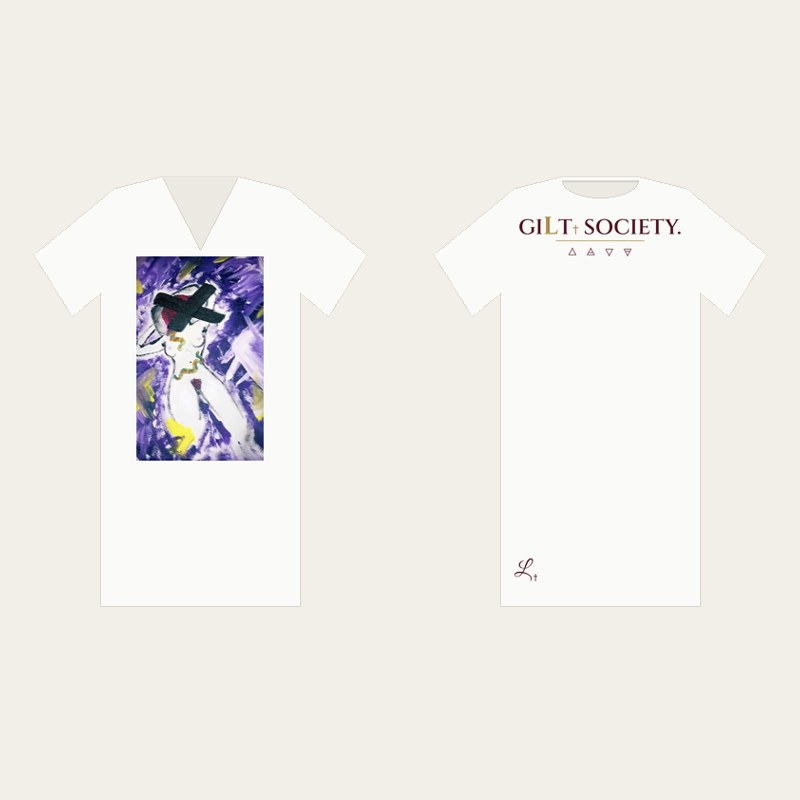
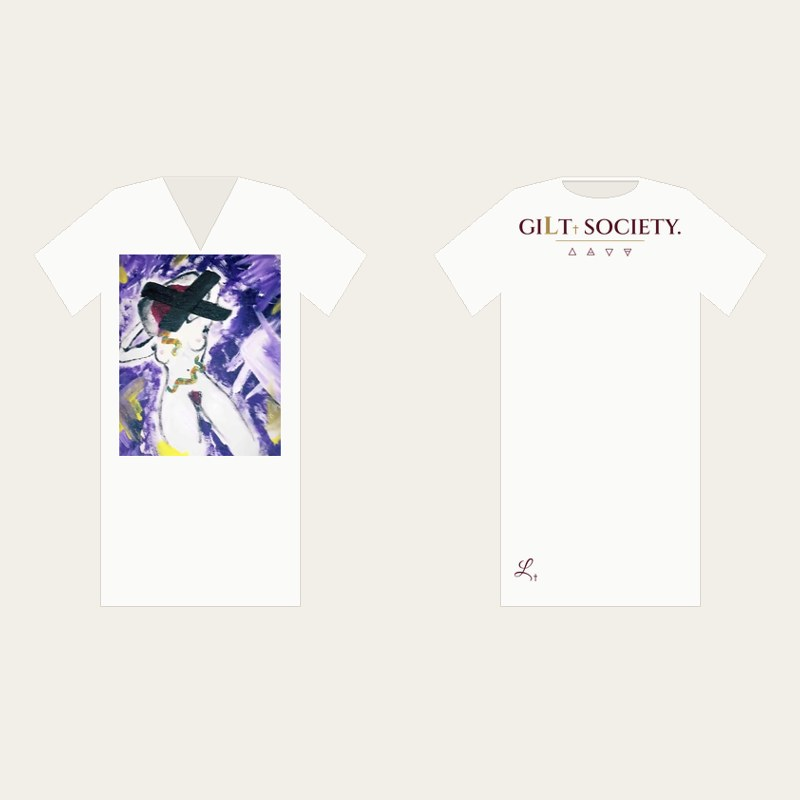
V-neck: full-front Persephone
Claude-Session: https://claude.ai/code/session_014iiJHpRhDAAXHjpJ1MU1PV

Changed region(s): [[0.125, 0.3125, 0.375, 0.5938]]

diff --git a/public/merch.html b/public/merch.html
@@ -25,7 +25,7 @@
 
 <div class="top"><a class="brand" href="index.html"><svg class="bm" viewBox="0 0 360 320" fill="none" aria-hidden="true"><path d="M180 8 354 306H6Z" stroke="#ffffff" stroke-width="9" stroke-linejoin="round"/><g transform="translate(80 106)"><circle cx="100" cy="100" r="78" stroke="#ffffff" stroke-width="15"/><circle cx="100" cy="100" r="78" stroke="#c9ad6e" stroke-width="15" stroke-dasharray="1.5 8" opacity=".7"/><path d="M100 22C112 22 128 24 138 30" stroke="#ffffff" stroke-width="15" stroke-linecap="round"/><ellipse cx="94" cy="20" rx="16" ry="10" fill="#c23352"/><circle cx="100" cy="100" r="20" stroke="#c9ad6e" stroke-width="3.5"/><circle cx="100" cy="100" r="4.5" fill="#c9ad6e"/></g></svg><span>Gi<i class="gl">l</i>t<svg class="bx" viewBox="0 0 20 32" fill="none" aria-hidden="true"><path d="M10 2V30M2 11H18" stroke="#ffffff" stroke-width="3.5" stroke-linecap="square"/></svg> Society.</span></a><nav><a href="collection.html">Collection</a><a href="merch.html" class="cur">Society Merch</a><a href="experiences.html">Experiences</a><a href="consulting.html">Palette</a><a href="framing.html">Framing</a><a href="commissions.html">Commissions</a><a href="shipping.html">Shipping</a><a href="payment.html">Payment</a></nav></div>
 <section id="merch"><div class="in"><p class="k"><svg class="sy"><use href="#s-earth"/></svg>Vestments &mdash; Society Merch</p><h2>Society Merch</h2><p class="sub">Wearable pieces of the Society. Every item is made to order for you and ships in 5&ndash;10 business days, with $7.95 flat US shipping. Choose your size at checkout.</p>
-<h3 class="mh">The Persephone Edition</h3><div class="mg"><article class="mc"><div class="mi"><img src="img/merch/persephone-aop-tee.jpg" alt="Gilt Society. Persephone All-Over Tee" loading="lazy" width="800" height="800"></div><div class="mb"><h3>Persephone All-Over Tee</h3><p class="mp">$58</p><p class="md">The painting, edge to edge. The Gilt Society. name and the four elements live on the back.</p><p class="ms">XS–2XL &middot; made to order</p><a class="btn" href="https://buy.stripe.com/14A9AM4vYf1Abt0gy21oI0t" target="_blank" rel="noopener">Buy &rarr;</a></div></article><article class="mc"><div class="mi"><img src="img/merch/persephone-sweatshirt.jpg" alt="Gilt Society. Persephone Sweatshirt" loading="lazy" width="800" height="800"></div><div class="mb"><h3>Persephone Sweatshirt</h3><p class="mp">$72</p><p class="md">Black premium crewneck with Persephone, the Gilt Society. name and the four elements beneath her.</p><p class="ms">S–3XL &middot; made to order</p><a class="btn" href="https://buy.stripe.com/8x27sE0fI3iS1Sq1D81oI0u" target="_blank" rel="noopener">Buy &rarr;</a></div></article><article class="mc"><div class="mi"><img src="img/merch/persephone-sweatshirt-white.jpg" alt="Gilt Society. Persephone Sweatshirt, white" loading="lazy" width="800" height="800"></div><div class="mb"><h3>Persephone Sweatshirt &mdash; White</h3><p class="mp">$72</p><p class="md">White premium crewneck. Persephone large on the front, the Gilt Society. name and the four elements on the back, a small L&#x271D; signature on the left sleeve.</p><p class="ms">S–3XL &middot; made to order</p><a class="btn" href="https://buy.stripe.com/6oUaEQ6E6g5E1Sq0z41oI0I" target="_blank" rel="noopener">Buy &rarr;</a></div></article><article class="mc"><div class="mi"><img src="img/merch/persephone-vneck-white.jpg" alt="Gilt Society. Persephone V-Neck Tee, white" loading="lazy" width="800" height="800"></div><div class="mb"><h3>Persephone V-Neck Tee &mdash; White</h3><p class="mp">$48</p><p class="md">White V-neck. Persephone large on the front, the Gilt Society. name and the four elements on the back, with a small L&#x271D; signature at the lower corner.</p><p class="ms">S–2XL &middot; made to order</p><a class="btn" href="https://buy.stripe.com/7sY6oA2nQ2eOdB881w1oI0J" target="_blank" rel="noopener">Buy &rarr;</a></div></article><article class="mc"><div class="mi"><img src="https://files.cdn.printful.com/files/0cd/0cd37065373eb8f49ba6b71ddf982b6b_preview.png" alt="Gilt Society. Persephone Mug" loading="lazy" width="800" height="800"></div><div class="mb"><h3>Persephone Mug</h3><p class="mp">$28</p><p class="md">11 oz ceramic, wrapped in Persephone on both sides.</p><p class="ms">11 oz &middot; made to order</p><a class="btn" href="https://buy.stripe.com/3cIeV69Qif1A54CdlQ1oI0b" target="_blank" rel="noopener">Buy &rarr;</a></div></article><article class="mc"><div class="mi"><img src="img/merch/persephone-mug-black.jpg" alt="Gilt Society. Persephone Mug, black" loading="lazy" width="800" height="800"></div><div class="mb"><h3>Persephone Mug &mdash; Black</h3><p class="mp">$32</p><p class="md">11 oz black glossy ceramic. Persephone and the Gilt Society. name on both sides, the four elements stacked down the center.</p><p class="ms">11 oz &middot; made to order</p><a class="btn" href="https://buy.stripe.com/bJe8wIfaC1aKcx4dlQ1oI0H" target="_blank" rel="noopener">Buy &rarr;</a></div></article></div>
+<h3 class="mh">The Persephone Edition</h3><div class="mg"><article class="mc"><div class="mi"><img src="img/merch/persephone-aop-tee.jpg" alt="Gilt Society. Persephone All-Over Tee" loading="lazy" width="800" height="800"></div><div class="mb"><h3>Persephone All-Over Tee</h3><p class="mp">$58</p><p class="md">The painting, edge to edge. The Gilt Society. name and the four elements live on the back.</p><p class="ms">XS–2XL &middot; made to order</p><a class="btn" href="https://buy.stripe.com/14A9AM4vYf1Abt0gy21oI0t" target="_blank" rel="noopener">Buy &rarr;</a></div></article><article class="mc"><div class="mi"><img src="img/merch/persephone-sweatshirt.jpg" alt="Gilt Society. Persephone Sweatshirt" loading="lazy" width="800" height="800"></div><div class="mb"><h3>Persephone Sweatshirt</h3><p class="mp">$72</p><p class="md">Black premium crewneck with Persephone, the Gilt Society. name and the four elements beneath her.</p><p class="ms">S–3XL &middot; made to order</p><a class="btn" href="https://buy.stripe.com/8x27sE0fI3iS1Sq1D81oI0u" target="_blank" rel="noopener">Buy &rarr;</a></div></article><article class="mc"><div class="mi"><img src="img/merch/persephone-sweatshirt-white.jpg" alt="Gilt Society. Persephone Sweatshirt, white" loading="lazy" width="800" height="800"></div><div class="mb"><h3>Persephone Sweatshirt &mdash; White</h3><p class="mp">$72</p><p class="md">White premium crewneck. Persephone large on the front, the Gilt Society. name and the four elements on the back, a small L&#x271D; signature on the left sleeve.</p><p class="ms">S–3XL &middot; made to order</p><a class="btn" href="https://buy.stripe.com/6oUaEQ6E6g5E1Sq0z41oI0I" target="_blank" rel="noopener">Buy &rarr;</a></div></article><article class="mc"><div class="mi"><img src="img/merch/persephone-vneck-white.jpg" alt="Gilt Society. Persephone V-Neck Tee, white" loading="lazy" width="800" height="800"></div><div class="mb"><h3>Persephone V-Neck Tee &mdash; White</h3><p class="mp">$48</p><p class="md">White V-neck. Persephone across the full front, the Gilt Society. name and the four elements on the back, with a small L&#x271D; signature at the lower corner.</p><p class="ms">S–2XL &middot; made to order</p><a class="btn" href="https://buy.stripe.com/7sY6oA2nQ2eOdB881w1oI0J" target="_blank" rel="noopener">Buy &rarr;</a></div></article><article class="mc"><div class="mi"><img src="https://files.cdn.printful.com/files/0cd/0cd37065373eb8f49ba6b71ddf982b6b_preview.png" alt="Gilt Society. Persephone Mug" loading="lazy" width="800" height="800"></div><div class="mb"><h3>Persephone Mug</h3><p class="mp">$28</p><p class="md">11 oz ceramic, wrapped in Persephone on both sides.</p><p class="ms">11 oz &middot; made to order</p><a class="btn" href="https://buy.stripe.com/3cIeV69Qif1A54CdlQ1oI0b" target="_blank" rel="noopener">Buy &rarr;</a></div></article><article class="mc"><div class="mi"><img src="img/merch/persephone-mug-black.jpg" alt="Gilt Society. Persephone Mug, black" loading="lazy" width="800" height="800"></div><div class="mb"><h3>Persephone Mug &mdash; Black</h3><p class="mp">$32</p><p class="md">11 oz black glossy ceramic. Persephone and the Gilt Society. name on both sides, the four elements stacked down the center.</p><p class="ms">11 oz &middot; made to order</p><a class="btn" href="https://buy.stripe.com/bJe8wIfaC1aKcx4dlQ1oI0H" target="_blank" rel="noopener">Buy &rarr;</a></div></article></div>
 <h3 class="mh">Signature &mdash; Embroidered</h3><div class="mg"><article class="mc"><div class="mi"><img src="https://files.cdn.printful.com/files/045/045d5da96e69009b681d081728e9b8d6_preview.png" alt="Gilt Society. Embroidered Tee &mdash; Black" loading="lazy" width="800" height="800"></div><div class="mb"><h3>Embroidered Tee &mdash; Black</h3><p class="mp">$44</p><p class="md">Stitched in cream, old gold and red. Quiet, close to the heart.</p><p class="ms">XS–3XL &middot; made to order</p><a class="btn" href="https://buy.stripe.com/cNi28k4vY1aK9kSa9E1oI0v" target="_blank" rel="noopener">Buy &rarr;</a></div></article><article class="mc"><div class="mi"><img src="https://files.cdn.printful.com/files/935/93547cc4978228fbc2d03597dce81436_preview.png" alt="Gilt Society. Embroidered Tee &mdash; White" loading="lazy" width="800" height="800"></div><div class="mb"><h3>Embroidered Tee &mdash; White</h3><p class="mp">$44</p><p class="md">Stitched in maroon, old gold and red.</p><p class="ms">XS–3XL &middot; made to order</p><a class="btn" href="https://buy.stripe.com/8x2bIU4vYf1AaoW5To1oI0w" target="_blank" rel="noopener">Buy &rarr;</a></div></article><article class="mc"><div class="mi"><img src="https://files.cdn.printful.com/files/c1f/c1fc0967a7f90c596e1ce2c231b75edf_preview.png" alt="Gilt Society. Embroidered Hoodie &mdash; Black" loading="lazy" width="800" height="800"></div><div class="mb"><h3>Embroidered Hoodie &mdash; Black</h3><p class="mp">$88</p><p class="md">Heavy premium pullover, the Gilt Society. name stitched at the chest.</p><p class="ms">XS–3XL &middot; made to order</p><a class="btn" href="https://buy.stripe.com/cNi14g2nQbPo1Sq4Pk1oI0x" target="_blank" rel="noopener">Buy &rarr;</a></div></article><article class="mc"><div class="mi"><img src="https://files.cdn.printful.com/files/b6b/b6bf9aa8a2e9412af51c3abace5122eb_preview.png" alt="Gilt Society. Embroidered Hoodie &mdash; White" loading="lazy" width="800" height="800"></div><div class="mb"><h3>Embroidered Hoodie &mdash; White</h3><p class="mp">$88</p><p class="md">Heavy premium pullover in white with maroon and gold thread.</p><p class="ms">XS–3XL &middot; made to order</p><a class="btn" href="https://buy.stripe.com/6oUeV62nQ2eOeFc4Pk1oI0y" target="_blank" rel="noopener">Buy &rarr;</a></div></article><article class="mc"><div class="mi"><img src="img/merch/embroidered-vneck-white.jpg" alt="Gilt Society. Embroidered V-Neck &mdash; White" loading="lazy" width="800" height="800"></div><div class="mb"><h3>Embroidered V-Neck &mdash; White</h3><p class="mp">$44</p><p class="md">The Gilt Society. name and four elements stitched small over the heart.</p><p class="ms">S–2XL &middot; made to order</p><a class="btn" href="https://buy.stripe.com/aFadR2e6y5r08gO0z41oI0C" target="_blank" rel="noopener">Buy &rarr;</a></div></article><article class="mc"><div class="mi"><img src="img/merch/embroidered-cap-black.jpg" alt="Gilt Society. Embroidered Cap &mdash; Black" loading="lazy" width="800" height="800"></div><div class="mb"><h3>Embroidered Cap &mdash; Black</h3><p class="mp">$38</p><p class="md">Gilt Society. on the front, the four elements stitched on the back.</p><p class="ms">One size &middot; made to order</p><a class="btn" href="https://buy.stripe.com/aFa14g3rU8Dc7cKftY1oI0D" target="_blank" rel="noopener">Buy &rarr;</a></div></article><article class="mc"><div class="mi"><img src="img/merch/embroidered-cap-white.jpg" alt="Gilt Society. Embroidered Cap &mdash; White" loading="lazy" width="800" height="800"></div><div class="mb"><h3>Embroidered Cap &mdash; White</h3><p class="mp">$38</p><p class="md">Maroon and old gold on white, the four elements on the back.</p><p class="ms">One size &middot; made to order</p><a class="btn" href="https://buy.stripe.com/28EaEQe6y06G8gOepU1oI0E" target="_blank" rel="noopener">Buy &rarr;</a></div></article></div>
 <h3 class="mh">Signature &mdash; Printed</h3><div class="mg"><article class="mc"><div class="mi"><img src="img/merch/signature-tee-black.jpg" alt="Gilt Society. Signature Tee &mdash; Black" loading="lazy" width="800" height="800"></div><div class="mb"><h3>Signature Tee &mdash; Black</h3><p class="mp">$38</p><p class="md">The Gilt Society. name and the four elements printed large across the chest.</p><p class="ms">XS–3XL &middot; made to order</p><a class="btn" href="https://buy.stripe.com/28E5kw8Me5r0bt0gy21oI0A" target="_blank" rel="noopener">Buy &rarr;</a></div></article><article class="mc"><div class="mi"><img src="img/merch/signature-hoodie-black.jpg" alt="Gilt Society. Signature Hoodie &mdash; Black" loading="lazy" width="800" height="800"></div><div class="mb"><h3>Signature Hoodie &mdash; Black</h3><p class="mp">$72</p><p class="md">The name and four elements printed large across the chest, heavy premium fleece.</p><p class="ms">XS–3XL &middot; made to order</p><a class="btn" href="https://buy.stripe.com/8x24gs2nQ4mW1Sq81w1oI0B" target="_blank" rel="noopener">Buy &rarr;</a></div></article><article class="mc"><div class="mi"><img src="img/merch/signature-tote.jpg" alt="Gilt Society. Signature Tote" loading="lazy" width="800" height="800"></div><div class="mb"><h3>Signature Tote</h3><p class="mp">$34</p><p class="md">Natural organic cotton with the Gilt Society. name and four elements in maroon and gold.</p><p class="ms">One size &middot; made to order</p><a class="btn" href="https://buy.stripe.com/bJe14g3rUg5Ebt0chM1oI0z" target="_blank" rel="noopener">Buy &rarr;</a></div></article></div>
 <h3 class="mh">Stickers</h3><div class="mg"><article class="mc"><div class="mi"><img src="img/merch/sticker.jpg" alt="Gilt Society. Sticker" loading="lazy" width="800" height="800"></div><div class="mb"><h3>Society Sticker</h3><p class="mp">$6</p><p class="md">3&times;3 in kiss-cut sticker: the Gilt Society. name and four elements in gold and cream on black.</p><p class="ms">3&times;3 in &middot; $3.95 shipping</p><a class="btn" href="https://buy.stripe.com/14A14gbYq2eOgNk0z41oI0G" target="_blank" rel="noopener">Buy &rarr;</a></div></article></div>
